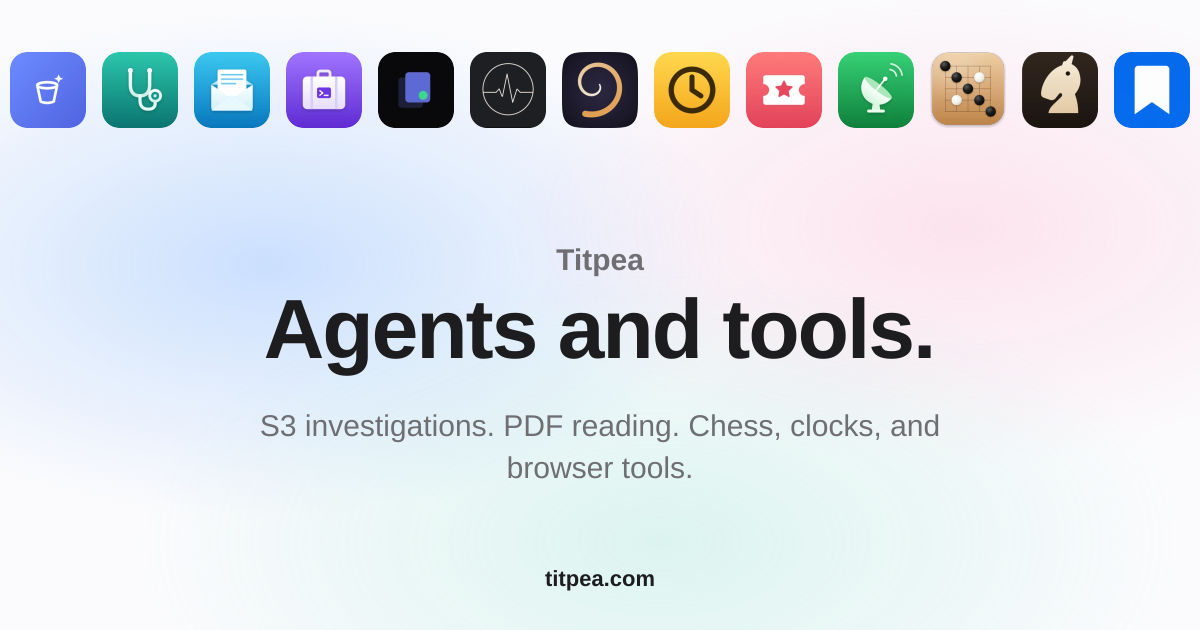
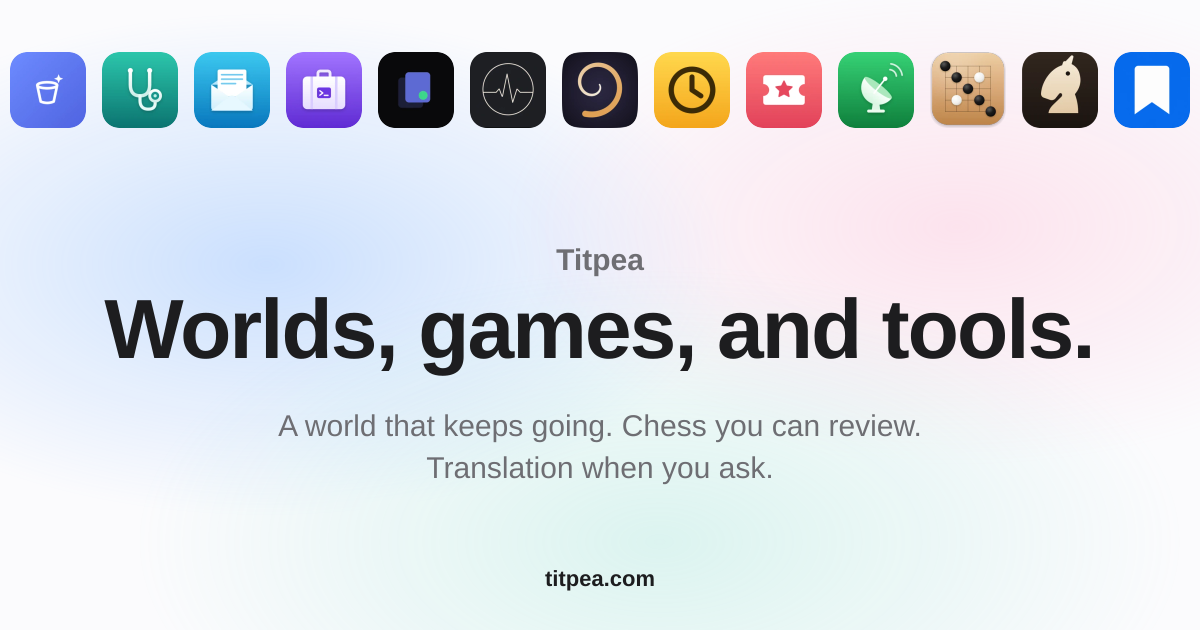
Home: World Machine, Chessboard and Bilingual lead; World Machine v0.24
The owner picked the three featured rows (World Machine, Chessboard,
Bilingual, in that order); Storage Agent returns to the catalog.
- featured.order sets the row order (npm run check wants 1..n);
  featured.caption labels an image that is not a plain capture, so
  Bilingual's store image keeps "Illustration: store image with sample
  translations" on Home too.
- Home names the picks: "Worlds, games, and tools." / 小世界、棋局和工具,
  lede "A world that keeps going. Chess you can review. Translation when you
  ask."; meta title, description, share image and smoke test follow.
- The icon shelf is two centred rows at most eight wide (15 icons read as
  8 + 7, not 7 + 7 + 1).
- World Machine v0.24: hero, Home and share images from the v0.24 review
  captures (noon, the whole town at dusk, Ares); Pocket Universe places
  showcase; an "Agent-ready" card and FAQ (a local agent such as Pi can make
  people's choices, World voice via a local agent or your key, decisions
  recorded so replay never asks again); v0.20–v0.24 compatibility.
- DESIGN.md: Home contents line, featured picks, order and caption.

Claude-Session: https://claude.ai/code/session_01JmaFxrCaTr7J8dy17sm4dB

Changed region(s): [[0.0925, 0.4524, 0.925, 0.6032], [0.2158, 0.6635, 0.8017, 0.6937], [0.3392, 0.7238, 0.6475, 0.7841]]

diff --git a/src/content/products/world-machine.ts b/src/content/products/world-machine.ts
@@ -3,6 +3,18 @@ import { defineProduct } from "../schema";
 export default defineProduct({
   slug: "world-machine",
   line: "games",
+  featured: {
+    order: 1,
+    image: {
+      src: "/assets/world-machine-town.webp",
+      width: 1100,
+      height: 900,
+      alt: {
+        en: "World Machine on day 1,082 of a Tiny Society town at dusk: the whole town stacked up the hill, lit windows, a telescope and a lighthouse, and Mara asking how to open the new bread cart. Captured from the app running in its Linux preview.",
+        zh: "World Machine 里 Tiny Society 小镇的第 1082 天黄昏：整座小镇沿山坡层层排开，窗里亮着灯，有望远镜和灯塔，Mara 在问新面包车怎么开张。截自应用在 Linux 预览环境中的运行画面，界面为英文。",
+      },
+    },
+  },
   repo: "hxddh/world-machine",
   icon: "/assets/icons/world-machine.webp",
   og: "/assets/og-world-machine.png",
@@ -36,13 +48,21 @@ export default defineProduct({
       label: "World Machine",
       frame: "wide",
       image: {
-        src: "/assets/world-machine-plot.webp",
-        alt: "World Machine on day 27 of Tiny Society: a plot on the square offers a clock tower, bookshop, cheese shop, surgery, pottery or gallery with their costs, while Evan asks whether to stay or take a job. Captured from the app running in its Linux preview.",
+        src: "/assets/world-machine-noon.webp",
+        alt: "World Machine on day 1,082 of a Tiny Society town at noon: gauges for work, money in town and spirits, the harbour street with its shops and plots, and Mara asking how to open the new bread cart. Captured from the app running in its Linux preview.",
         width: 1100,
         height: 900,
       },
     },
     showcases: [
+      {
+        src: "/assets/world-machine-ares.webp",
+        width: 1100,
+        height: 900,
+        alt: "Pocket Universe on Ares, sol 180: habitat modules and domes on red regolith under a butterscotch sky, gauges for trust, tension and stores, and colonists talking by the solar panel. Captured from the app running in its Linux preview.",
+        title: "Not only a harbour.",
+        body: "Pocket Universe settles Ares, Maple Street in 1987, or Icebridge, each drawn as itself.",
+      },
       {
         src: "/assets/world-machine-moment.webp",
         width: 1100,
@@ -63,7 +83,7 @@ export default defineProduct({
           { title: "Build on plots", body: "What you build decides who moves in." },
           { title: "Designs and names", body: "Paint a flag or a sail; name boats and babies." },
           { title: "Talk to anyone", body: "People understand everyday phrasing, in English or Chinese." },
-          { title: "On any screen edge", body: "A strip you can click; drag its letters open." },
+          { title: "Agent-ready", body: "Let a local agent like Pi, or your key, drive it." },
           { title: "Share a World", body: "Read-only World codes; a friend's resident can visit." },
         ],
       },
@@ -86,7 +106,7 @@ export default defineProduct({
         items: [
           {
             title: "Is it stable?",
-            body: "No. World Machine is an experimental pre-alpha. Releases v0.20 to v0.23 each open Worlds saved by the release before, but a World saved by an older Pack version may not open; nothing is deleted, and the file keeps its whole history.",
+            body: "No. World Machine is an experimental pre-alpha. Releases v0.20 to v0.24 each open Worlds saved by the release before, but a World saved by an older Pack version may not open; nothing is deleted, and the file keeps its whole history.",
           },
           {
             title: "How do I open it the first time?",
@@ -95,6 +115,10 @@ export default defineProduct({
           {
             title: "How far does a World move while I am away?",
             body: "One period for every six hours you were away, at most 28 periods (a week) per return. The return briefing says how many.",
+          },
+          {
+            title: "Can an agent drive it?",
+            body: "Yes, if you want. People choose from actions the World offers through one agent interface, and a local agent such as Pi can make those choices. With World voice on in Settings, a local agent or your own API key also tells you what happened while you were away and answers the people you talk to. Pi runs with no tools, extensions or session, and every decision is recorded, so replaying a World never asks the agent again.",
           },
           {
             title: "Do people understand everything I type?",
@@ -132,13 +156,21 @@ export default defineProduct({
       label: "World Machine",
       frame: "wide",
       image: {
-        src: "/assets/world-machine-plot.webp",
-        alt: "Tiny Society 第 27 天的 World Machine：广场上的一块地可以建钟楼、书店、奶酪店、诊所、陶艺坊或画廊，各标造价；Evan 在问留下还是去接那份工作。截自应用在 Linux 预览环境中的运行画面，界面为英文。",
+        src: "/assets/world-machine-noon.webp",
+        alt: "World Machine 里 Tiny Society 小镇的第 1082 天正午：工作、镇上的钱与心气三个指标，港口街道上的店铺和空地，Mara 在问新面包车怎么开张。截自应用在 Linux 预览环境中的运行画面，界面为英文。",
         width: 1100,
         height: 900,
       },
     },
     showcases: [
+      {
+        src: "/assets/world-machine-ares.webp",
+        width: 1100,
+        height: 900,
+        alt: "Pocket Universe 的 Ares 第 180 个火星日：红色风化层上的居住舱和穹顶、奶糖色的天空，信任、紧张与储备三个指标，殖民者在太阳能板旁聊天。截自应用在 Linux 预览环境中的运行画面，界面为英文。",
+        title: "不只是港口",
+        body: "Pocket Universe 可以落在 Ares、1987 年的 Maple Street 或 Icebridge，各有各的样子。",
+      },
       {
         src: "/assets/world-machine-moment.webp",
         width: 1100,
@@ -159,7 +191,7 @@ export default defineProduct({
           { title: "在地块上建造", body: "你建的东西决定谁搬来。" },
           { title: "设计与命名", body: "画旗帜或船帆，给船和新生儿起名。" },
           { title: "和谁都能聊", body: "听得懂日常说法，中文英文都行。" },
-          { title: "放在屏幕任意边", body: "长条可以点居民，拖开来信。" },
+          { title: "可接 Agent", body: "本机 Agent（如 Pi）或你自己的密钥，都能驱动它。" },
           { title: "分享一个世界", body: "World 代码只读打开；朋友的居民能来做客。" },
         ],
       },
@@ -182,7 +214,7 @@ export default defineProduct({
         items: [
           {
             title: "现在稳定吗？",
-            body: "不稳定。World Machine 是实验性的早期预览版。v0.20 到 v0.23 每一版都能打开上一版保存的世界，但更旧的 Pack 版本保存的世界可能打不开；文件不会被删除，完整历史仍在其中。",
+            body: "不稳定。World Machine 是实验性的早期预览版。v0.20 到 v0.24 每一版都能打开上一版保存的世界，但更旧的 Pack 版本保存的世界可能打不开；文件不会被删除，完整历史仍在其中。",
           },
           {
             title: "第一次怎么打开？",
@@ -191,6 +223,10 @@ export default defineProduct({
           {
             title: "离开时世界会走多远？",
             body: "每离开六小时前进一个周期，每次回来最多 28 个周期（一周）。回来时的简报会说明走了多少。",
+          },
+          {
+            title: "能让 Agent 来驱动吗？",
+            body: "可以，看你需要。居民通过统一的 Agent 接口，从世界给出的行动里做选择，本机 Agent（如 Pi）可以替他们选。在设置里打开世界之声后，本机 Agent 或你自己的 API 密钥还会讲述你离开时发生的事，并替居民回答你。Pi 运行时不带工具、扩展和会话；每个决定都会记录下来，回放世界时不会再问 Agent。",
           },
           {
             title: "我打的每句话都能听懂吗？",

diff --git a/src/content/site.ts b/src/content/site.ts
@@ -112,10 +112,10 @@ export const ui: Record<Locale, Ui> = {
       external: "External",
     },
     productIndex: "Independent software by hxddh",
-    homeMetaTitle: "Titpea — Agents and tools by hxddh",
-    homeTitle: "Agents and tools.",
-    homeDescription: "Software by hxddh, from S3 investigations and PDF reading to desktop chess and browser tools.",
-    homeLead: "S3 investigations. PDF reading. Chess, clocks, and browser tools.",
+    homeMetaTitle: "Titpea — Worlds, games, and tools by hxddh",
+    homeTitle: "Worlds, games, and tools.",
+    homeDescription: "Software by hxddh: a small world that keeps living, desktop chess you can review, translation when you ask, and tools for S3 storage and coding agents.",
+    homeLead: "A world that keeps going. Chess you can review. Translation when you ask.",
     featuredTitle: "Selected work",
     moreToolsTitle: "More tools",
     relatedInLine: "More in {line}",
@@ -188,10 +188,10 @@ export const ui: Record<Locale, Ui> = {
       external: "外部链接",
     },
     productIndex: "hxddh 独立开发的软件",
-    homeMetaTitle: "Titpea — Agent 和工具",
-    homeTitle: "Agent 和工具",
-    homeDescription: "hxddh 独立开发的软件：对象存储排查、PDF 阅读，以及桌面和浏览器里的日常工具。",
-    homeLead: "对象存储排查。PDF 阅读。棋类、时钟和浏览器小工具。",
+    homeMetaTitle: "Titpea — 小世界、棋局和工具",
+    homeTitle: "小世界、棋局和工具",
+    homeDescription: "hxddh 独立开发的软件：一个自己运转的小世界、能复盘的桌面国际象棋、需要时才出现的翻译，以及对象存储和编码 Agent 工具。",
+    homeLead: "自己运转的小世界。能复盘的国际象棋。需要时才出现的翻译。",
     featuredTitle: "主要作品",
     moreToolsTitle: "更多工具",
     relatedInLine: "更多{line}工具",

diff --git a/src/styles/pages.css b/src/styles/pages.css
@@ -181,12 +181,14 @@
 }
 
 /* Home hero: the app icons, a row of doors into the products. */
+/* Two centred rows: at most eight icons wide, so fifteen read as 8 + 7. */
 .home-icons {
-  display: grid;
-  grid-template-columns: repeat(7, auto);
+  display: flex;
+  flex-wrap: wrap;
   justify-content: center;
   gap: 14px;
-  margin: 0 0 28px;
+  max-width: calc(8 * 60px + 7 * 14px);
+  margin: 0 auto 28px;
   padding: 0;
   list-style: none;
 }
@@ -219,18 +221,19 @@
 }
 
 /* The top row labels above, so a name never covers the icon beneath. */
-.home-icons li:nth-child(-n + 7) .home-icon-name {
+.home-icons li:nth-child(-n + 8) .home-icon-name {
   top: auto;
   bottom: calc(100% + 8px);
 }
 
 /* Edge columns anchor to their inner side. */
-.home-icons li:nth-child(7n + 1) .home-icon-name {
+.home-icons li:nth-child(8n + 1) .home-icon-name {
   left: 0;
   transform: none;
 }
 
-.home-icons li:nth-child(7n) .home-icon-name {
+.home-icons li:nth-child(8n) .home-icon-name,
+.home-icons li:last-child .home-icon-name {
   right: 0;
   left: auto;
   transform: none;
@@ -557,12 +560,13 @@
   }
 
   .home-icons {
-    gap: 8px;
+    gap: 6px;
+    max-width: calc(8 * 34px + 7 * 6px);
   }
 
   .home-icons img {
-    width: 40px;
-    height: 40px;
+    width: 34px;
+    height: 34px;
   }
 
   .home-featured-copy {

diff --git a/src/lib/pages.ts b/src/lib/pages.ts
@@ -315,6 +315,7 @@ export type HomePageModel = {
     items: Array<
       CatalogItem & {
         image: { src: string; alt: string; width: number; height: number };
+        caption?: string;
       }
     >;
   };
@@ -360,7 +361,9 @@ export function homePage(locale: Locale): HomePageModel {
   const copy = ui[locale];
   const path = pathFor(locale);
   const alternatePath = pathFor(otherLocale(locale));
-  const featured = products.filter((product) => product.featured);
+  const featured = products
+    .filter((product) => product.featured)
+    .sort((a, b) => a.featured!.order - b.featured!.order);
   return {
     kind: "home",
     locale,
@@ -405,6 +408,7 @@ export function homePage(locale: Locale): HomePageModel {
         return {
           ...catalogItem(product, locale),
           image: { ...image, src: featuredSrc(product.featured!, locale), alt: image.alt[locale] },
+          caption: product.featured!.caption?.[locale],
         };
       }),
     },

diff --git a/src/content/products/bilingual.ts b/src/content/products/bilingual.ts
@@ -3,6 +3,22 @@ import { defineProduct } from "../schema";
 export default defineProduct({
   slug: "bilingual",
   line: "everyday",
+  featured: {
+    order: 3,
+    image: {
+      src: { en: "/assets/bilingual-en.webp", zh: "/assets/bilingual-zh.webp" },
+      width: 1280,
+      height: 800,
+      alt: {
+        en: "Store image: a French article with one paragraph’s English translation in the right margin",
+        zh: "商店图片：英文文章中一段的中文译文显示在右侧边注",
+      },
+    },
+    caption: {
+      en: "Illustration: store image with sample translations",
+      zh: "示意图：商店图片，译文为示例",
+    },
+  },
   icon: "/assets/icons/bilingual.webp",
   og: "/assets/og-bilingual.png",
   schema: {

diff --git a/src/content/schema.ts b/src/content/schema.ts
@@ -232,8 +232,12 @@ export type Product = {
   line: Line;
   /** The featured products (at most three) lead Home with this photograph. */
   featured?: {
+    /** Row order on Home, from 1. */
+    order: number;
     /** One capture, or one per locale when the app's own UI is in that language. */
     image: Omit<Image, "src" | "alt"> & { src: string | Record<Locale, string>; alt: Record<Locale, string> };
+    /** Shown under the image; required wording for anything that is not a plain capture. */
+    caption?: Record<Locale, string>;
   };
   /**
    * App icon: hero, local nav, catalog, About, 404, share image. Required

diff --git a/src/content/products/storage-agent-workbench.ts b/src/content/products/storage-agent-workbench.ts
@@ -3,17 +3,6 @@ import { defineProduct } from "../schema";
 export default defineProduct({
   slug: "storage-agent-workbench",
   line: "storage",
-  featured: {
-    image: {
-      src: "/assets/storage-agent-investigation.webp",
-      width: 1800,
-      height: 1290,
-      alt: {
-        en: "Storage Agent comparing object evidence in a storage investigation",
-        zh: "Storage Agent 对比存储调查中的对象证据",
-      },
-    },
-  },
   repo: "hxddh/storage-agent-workbench",
   icon: "/assets/icons/storage-agent-workbench.webp",
   og: "/assets/og-storage-agent-workbench.png",

diff --git a/scripts/check.ts b/scripts/check.ts
@@ -30,6 +30,8 @@ for (const product of products) {
 }
 const featuredCount = products.filter((product) => product.featured).length;
 if (featuredCount < 2 || featuredCount > 3) fail("two or three products lead Home as featured");
+const featuredOrder = products.flatMap((product) => (product.featured ? [product.featured.order] : [])).sort();
+if (featuredOrder.some((order, index) => order !== index + 1)) fail("featured rows are ordered 1, 2, 3 without gaps");
 
 /* ---------- Releases ---------- */
 

diff --git a/src/content/products/chessboard.ts b/src/content/products/chessboard.ts
@@ -4,6 +4,7 @@ export default defineProduct({
   slug: "chessboard",
   line: "games",
   featured: {
+    order: 2,
     image: {
       src: {
         en: "/assets/chessboard-featured-en.webp",

diff --git a/DESIGN.md b/DESIGN.md
@@ -40,8 +40,8 @@ Every page uses the same few parts. Build new content from them before inventing
 
 **Settled direction — the owner decided this twice (PR #150, PR #153).** Home follows Omni: the icon hero with two actions, then stacked showcase rows with lifted, rounded screenshots, then the catalog. Do not bring back the side-by-side hairline pair, a compact hero with no actions, or flat unshadowed screenshots, even to fit both captures on the first screen. Propose a change to this direction in a pull request for the owner to decide; never push it straight to `main`.
 
-- The hero opens on the shelf of app icons (two rows of seven, every product), each a link to its product whose name appears in a small glass label when pointed at or focused (above the top row, below the bottom row), then `Independent software by hxddh`, the contents line (`Agents and tools.` / `Agent 和工具`), and a lede that names the range in three fragments. Two actions: `Browse all tools` jumps to the catalog; `About hxddh ›` is the text link.
-- `Selected work` / `主要作品` introduces two showcase rows, Storage Agent and Chessboard: a professional tool and an everyday one, so the range shows in two picks. Each row is role kicker, product name, one-liner, `Learn more ›`, then the full captured screenshot, and the whole row is one link. Three is the ceiling; a new pick replaces one rather than adding a row. When the app's UI shows words, each locale gets a capture in its own language (`featured.image.src` per locale). Phones show the same whole screenshot: a crop cut sentences mid-line and read as a broken image.
+- The hero opens on the shelf of app icons (two centred rows, at most eight wide, every product), each a link to its product whose name appears in a small glass label when pointed at or focused (above the top row, below the bottom row), then `Independent software by hxddh`, the contents line (`Worlds, games, and tools.` / `小世界、棋局和工具`), and a lede that names the three featured products in three fragments (`A world that keeps going. Chess you can review. Translation when you ask.`). Two actions: `Browse all tools` jumps to the catalog; `About hxddh ›` is the text link.
+- `Selected work` / `主要作品` introduces three showcase rows, in `featured.order`: World Machine, Chessboard, Bilingual (the owner's picks, September 2026: the most distinctive first, the one still in store review last). Storage and agent tools are in the catalog below. Each row is role kicker, product name, one-liner, `Learn more ›`, then the full screenshot, and the whole row is one link. Three is the ceiling; a new pick replaces one rather than adding a row. An image that is not a plain capture (a store image with sample translations) carries `featured.caption`, shown under it, as on its product page. When the app's UI shows words, each locale gets a capture in its own language (`featured.image.src` per locale). Phones show the same whole screenshot: a crop cut sentences mid-line and read as a broken image.
 - `More tools` / `更多工具` groups the rest into Storage, Agents, Everyday, and Games. It is an index, one centered column: each product is one row, all of it a link, with its icon, name, one line (`catalog.text`), and a `›`, rows split by hairlines. No kicker, tag, or date: those live on the product page. A product belongs to one line, and the header dropdowns use the same four lines.
 
 ## About
